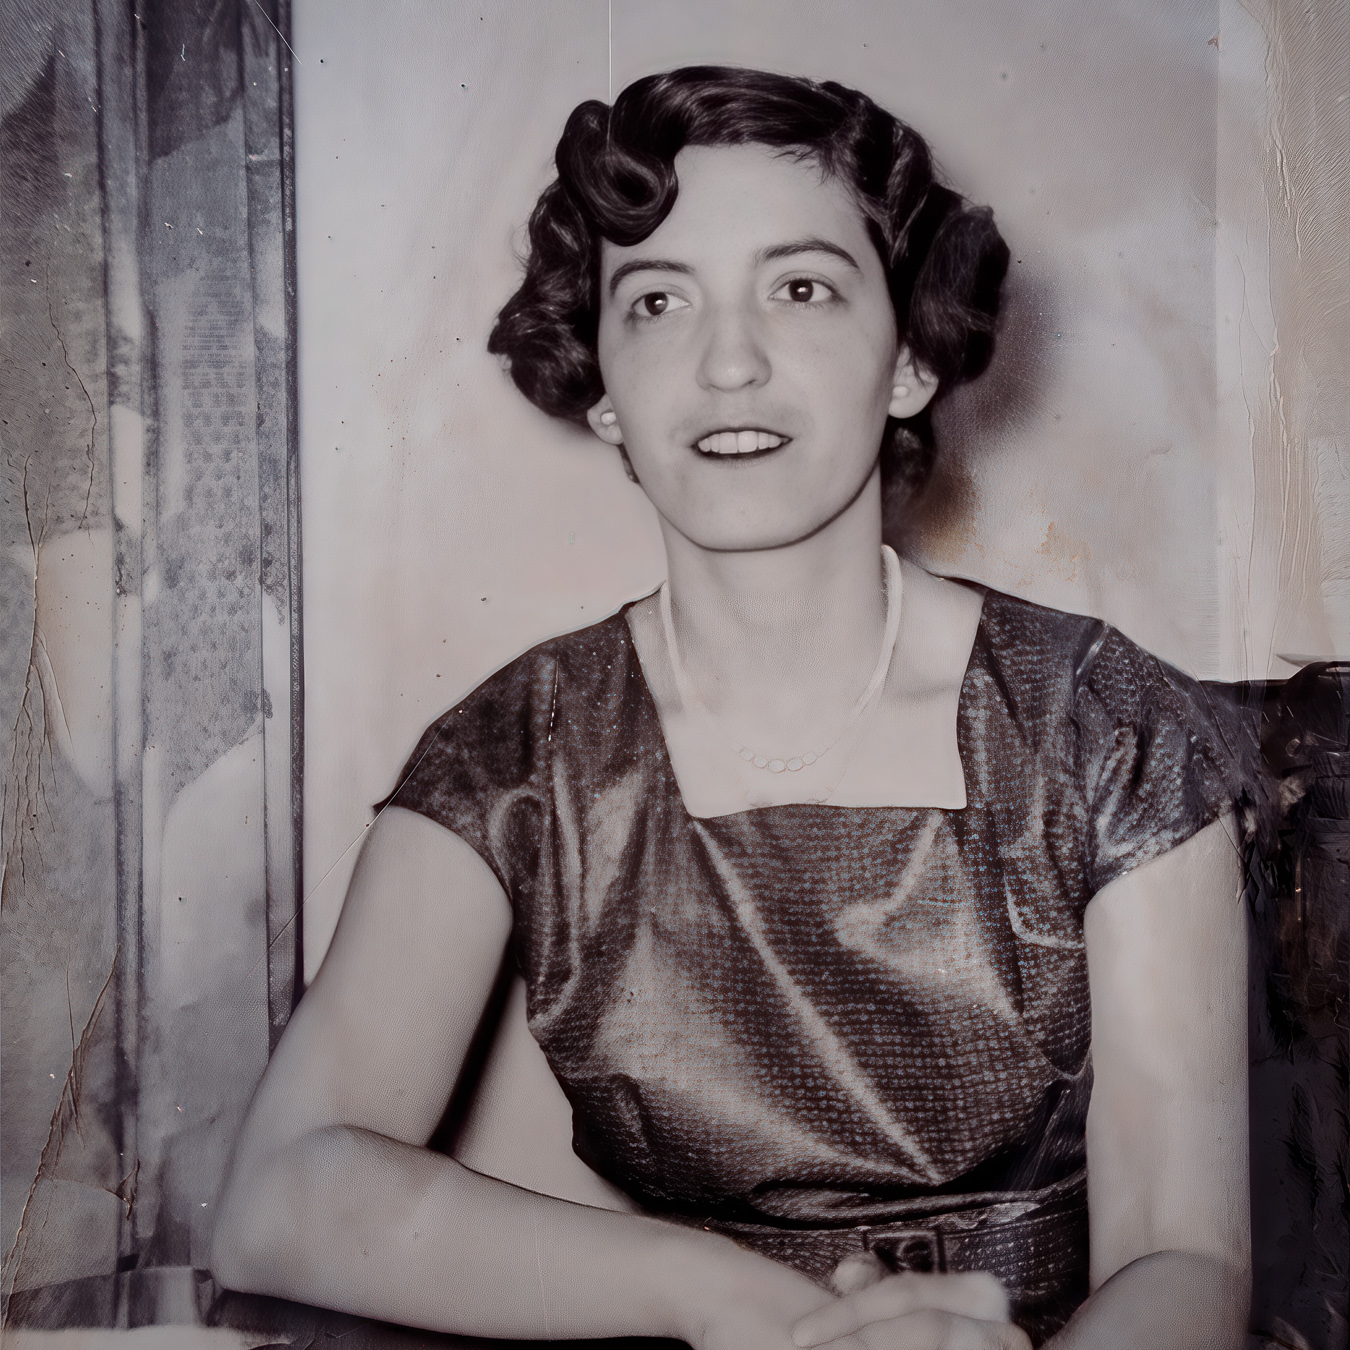
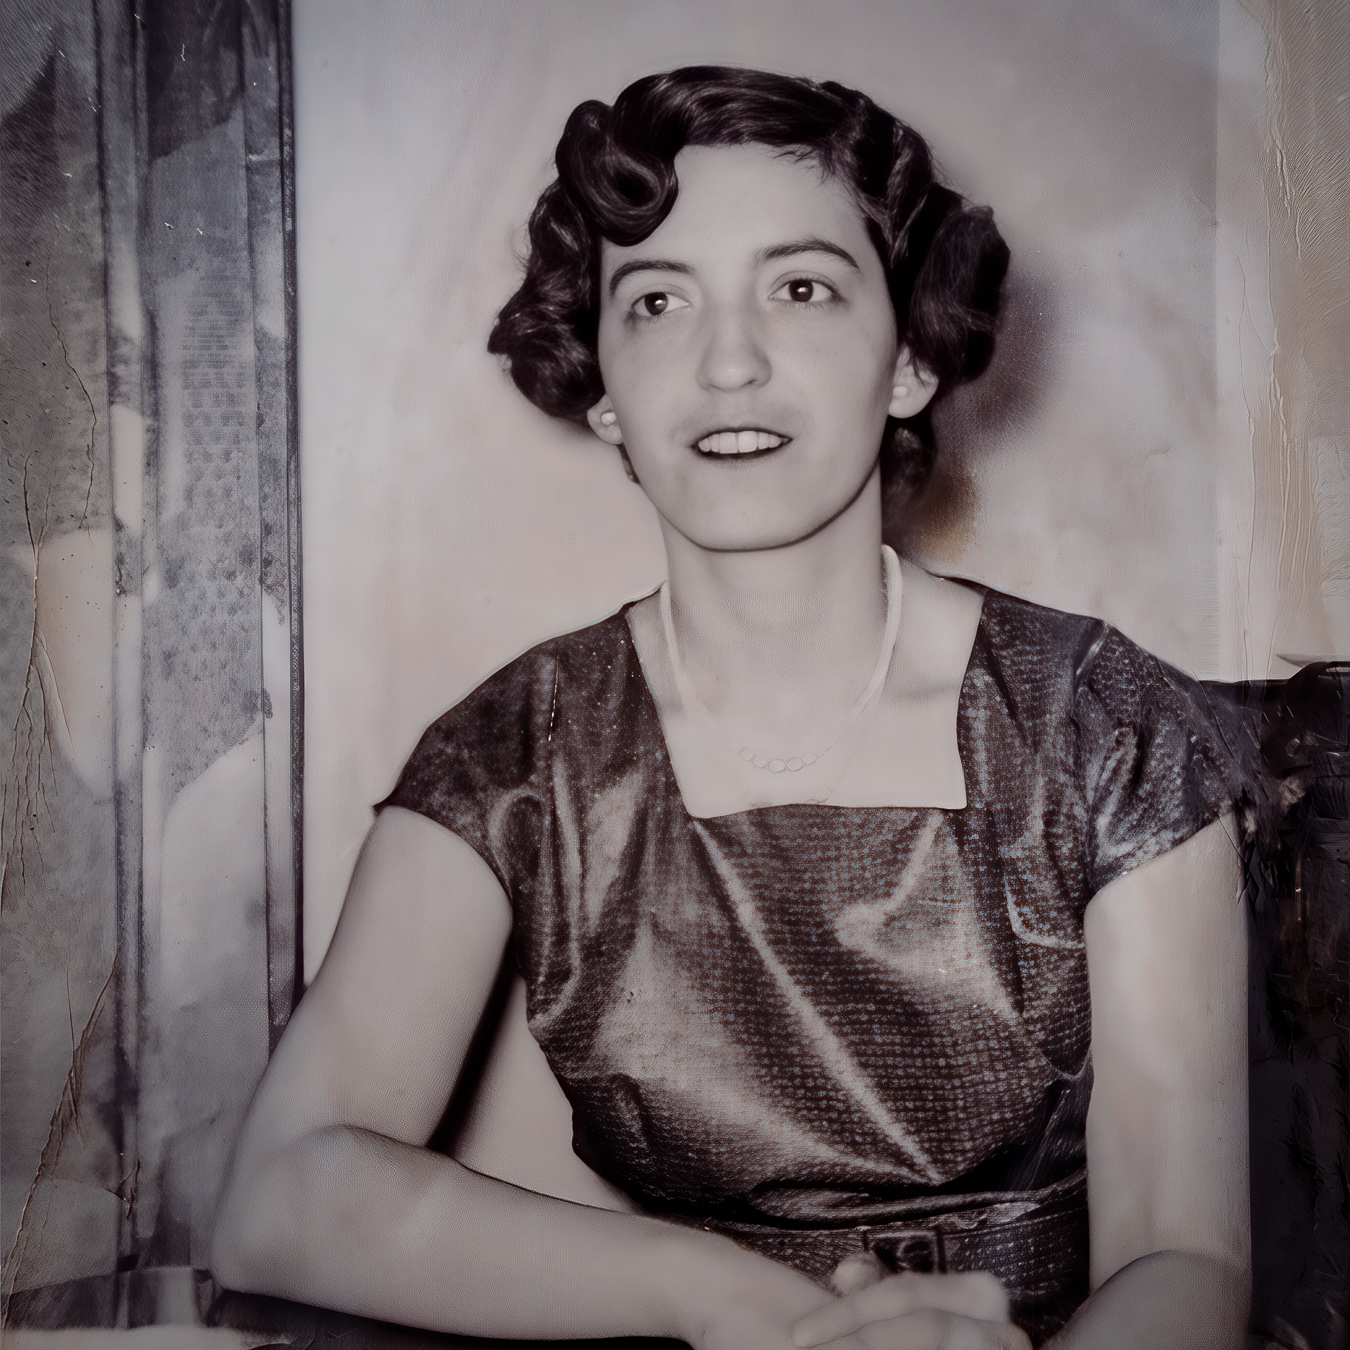
seo optim

Changed region(s): [[0.7778, 0.0, 1.0, 0.28], [0.0, 0.8711, 0.0622, 1.0], [0.0, 0.0, 0.0622, 0.0622]]

diff --git a/layouts/shortcodes/image-modal.html b/layouts/shortcodes/image-modal.html
@@ -1,23 +1,44 @@
-<div class="enlargeable-image">
+<figure class="enlargeable-image" itemscope itemtype="https://schema.org/ImageObject">
     {{ if .Get "title" }}
-      <h4 class="image-title">{{ .Get "title" }}</h4>
+      <figcaption class="image-title" itemprop="name">{{ .Get "title" }}</figcaption>
     {{ end }}
-    <img src="{{ .Get "src" }}" 
-         alt="{{ .Get "alt" }}" 
-         class="click-to-enlarge"
-         style="cursor: zoom-in; {{ with .Get "width" }}width: {{ . }};{{ else }}max-width: 100%;{{ end }} height: auto;">
-    {{ if .Get "caption" }}
-      <p class="image-caption">{{ .Get "caption" }}</p>
-    {{ end }}
-</div>
+    <img 
+        src="{{ .Get "src" }}" 
+        alt="{{ .Get "alt" }}" 
+        class="click-to-enlarge" 
+        itemprop="contentUrl"
+        loading="lazy"
+        data-caption="{{ if .Get "caption" }}{{ .Get "caption" }}{{ end }}"
+        {{ if .Get "srcset" }}srcset="{{ .Get "srcset" }}" sizes="(max-width: 768px) 100vw, 50vw"{{ end }}
+        style="cursor: zoom-in; {{ with .Get "width" }}width: {{ . }};{{ else }}max-width: 100%;{{ end }} height: auto;"
+    >
+</figure>
 
 {{ if not (.Page.Scratch.Get "modal_created") }}
   {{ .Page.Scratch.Set "modal_created" true }}
-  <div id="imageModal" class="modal" onclick="this.style.display='none'">
-    <span class="close">&times;</span>
-    <img class="modal-content" id="modalImage" style="max-width: 90vw; max-height: 90vh;">
-    <div id="caption"></div>
+  <div id="imageModal" class="modal" role="dialog" aria-modal="true" aria-label="Enlarged image view" onclick="this.style.display='none'">
+    <button class="close" aria-label="Close image modal">&times;</button>
+    <img class="modal-content" id="modalImage" alt="" style="max-width: 90vw; max-height: 90vh;">
+    <div id="modalCaption" class="modal-caption" aria-live="polite"></div>
   </div>
+
+{{ if not (.Page.Scratch.Get "jsonld_created") }}
+  {{ .Page.Scratch.Set "jsonld_created" true }}
+  <script type="application/ld+json">
+  {
+    "@context": "https://schema.org",
+    "@type": "ImageObject",
+    "contentUrl": "{{ .Get "src" }}",
+    "name": "{{ .Get "title" }}",
+    "description": "{{ .Get "alt" }}",
+    "caption": "{{ .Get "caption" }}",
+    "associatedArticle": {
+      "@type": "Article",
+      "url": "{{ .Page.Permalink }}"
+    }
+  }
+  </script>
+{{ end }}
 
   <style>
   .modal {
@@ -40,7 +61,7 @@
     height: auto;
     padding: 20px 0;
   }
-  #caption {
+  .modal-caption {
     margin: 0 auto;
     display: block;
     width: 80%;
@@ -48,6 +69,7 @@
     text-align: center;
     color: #ccc;
     padding: 10px 0;
+    font-style: italic;
   }
   .close {
     position: absolute;
@@ -56,19 +78,20 @@
     color: #f1f1f1;
     font-size: 40px;
     font-weight: bold;
-    transition: 0.3s;
+    background: none;
+    border: none;
+    cursor: pointer;
   }
   .close:hover,
   .close:focus {
     color: #bbb;
     text-decoration: none;
-    cursor: pointer;
   }
   .image-title {
     margin-bottom: 0.5em;
     font-weight: bold;
     text-align: center;
-    width: 100%
+    width: 100%;
   }
   </style>
 
@@ -78,8 +101,10 @@
       document.querySelectorAll('.click-to-enlarge').forEach(img => {
         img.onclick = function(){
           const modalImg = document.getElementById('modalImage');
+          const modalCaption = document.getElementById('modalCaption');
           modalImg.src = this.src;
-          document.getElementById('caption').innerHTML = this.alt;
+          modalImg.alt = this.alt;
+          modalCaption.innerHTML = this.dataset.caption || ""; // Show caption if it exists
           document.getElementById('imageModal').style.display = "block";
           
           // Reset image size first
@@ -101,6 +126,13 @@
       document.querySelector('.close').onclick = function() {
         document.getElementById('imageModal').style.display = "none";
       }
+      
+      // Close modal on ESC key
+      document.addEventListener('keydown', function(e) {
+        if (e.key === "Escape") {
+          document.getElementById('imageModal').style.display = "none";
+        }
+      });
     }
   });
   </script>

diff --git a/layouts/_default/single.html b/layouts/_default/single.html
@@ -1,6 +1,6 @@
 <!DOCTYPE html>
 <html lang="{{ .Site.LanguageCode }}">
-
+  {{ block "schema" . }}{{ end }}
   <head>
     {{ partial "headers.html" . }}
     {{ partial "custom_headers.html" . }}

diff --git a/content/restauration.md b/content/restauration.md
@@ -8,18 +8,26 @@ draft = false
 
 ### Service de restauration, numérisation et retouches de photos d'archives
 
+- Restauration de photos floues
+- Élimination de grain
+- Enlever les rayures de photos abîmées
+- Numériser vos vieilles photos pour partage sur les réseaux sociaux
+- Améliorer la résolution pour impression et encadrement
+
 {{< fleximages >}}
 {{< image-modal 
-    src="/img/_DSC7374 - insta-2.jpg" 
+    src="/img/_DSC7374 - insta-2.jpg"
     width="500px"
-    alt="Avant"
     title="Avant"
+    alt="Avant, vieille photo abîmée d'une jeune dame"
+    caption="Avant, on voit bien les rayures et la texture sur cette vielles photo" 
 >}}
 {{< image-modal 
     src="/img/_DSC7374-001-Edit-Edit - insta.jpg"
     width="500px"
-    alt="Après"
     title="Après"
+    alt="Après, photo restaurée d'une jeune dame resplendissante"
+    caption="Après, le sujet est très clair, toutes les rayures sont disparues" 
 >}}
 {{< /fleximages >}}
 
@@ -29,14 +37,16 @@ draft = false
 {{< image-modal 
     src="/img/DSC01077 - insta.jpg" 
     width="500px"
-    alt="Avant"
     title="Avant"
+    alt="Avant, vieille photo abîmée d'une jeune dame"
+    caption="Avant, la photo est floue et le jaunissement est très apparent" 
 >}}
 {{< image-modal 
     src="/img/DSC01077-Edit-2 - insta.jpg"
     width="500px"
-    alt="Après"
     title="Après"
+    alt="Après, photo restaurée d'une jeune dame resplendissante"
+    caption="Après, la photo est très claire, le photo ne montre plus de vieillissement" 
 >}}
 {{< /fleximages >}}
 
